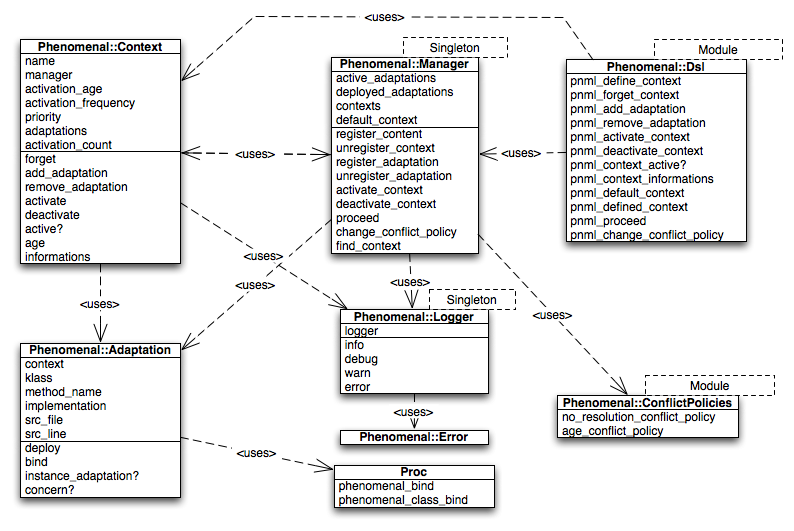
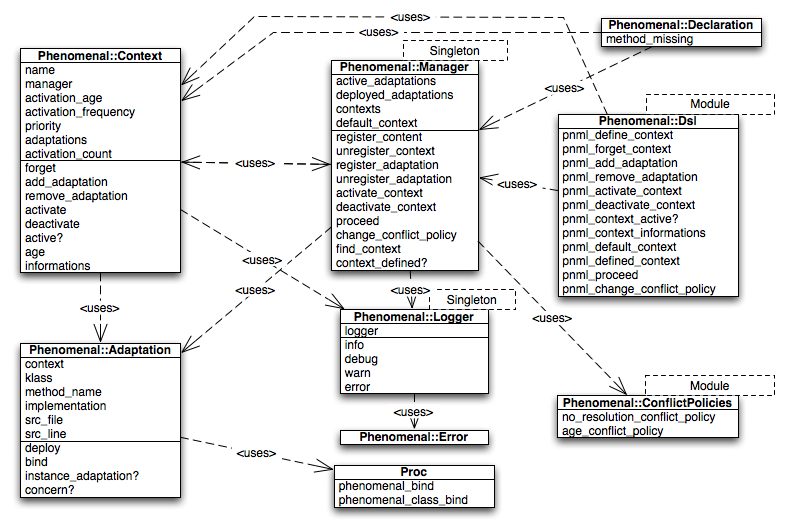
Style change

diff --git a/app/assets/stylesheets/layout.css.scss b/app/assets/stylesheets/layout.css.scss
@@ -8,6 +8,7 @@ body {
   #main_title{
     font-size:2em;
     float:left;
+    color:white;
   }
   #menu {
     float:right;
@@ -70,12 +71,13 @@ body {
   filter: progid:DXImageTransform.Microsoft.Shadow(color='#c0c0c0',Direction=135,Strength=8);
 }
 #footer {
+  color: white;
   text-align:center;
   a {
-    color:black;
+    color:white;
   }
   a:hover{
-    color:black;
+    color:white;
   }
 }
 .clear {

diff --git a/app/controllers/application_controller.rb b/app/controllers/application_controller.rb
@@ -6,27 +6,27 @@ class ApplicationController < ActionController::Base
   def activate_contexts
     # Hour contexts
     hour = Time.now.hour
-    if hour > 6 && hour < 12
-      pnml_activate_context(:morning) 
-    elsif hour <18
-      pnml_activate_context(:afternoon) 
+    if hour >= 6 && hour < 12
+      pnml_activate_context(DayTimes::Morning.name) 
+    elsif hour >= 12 && hour <18
+      pnml_activate_context(DayTimes::Afternoon.name) 
     elsif hour >= 18 && hour < 23
-      pnml_activate_context(:evening) 
+      pnml_activate_context(DayTimes::Evening.name) 
     else
-       pnml_activate_context(:night) 
+       pnml_activate_context(DayTimes::Night.name) 
     end
     
     # Browser context
     user_agent = request.user_agent
     puts user_agent
     if user_agent[/(Firefox)/]
-      pnml_activate_context(:firefox) 
+      pnml_activate_context(Browsers::Firefox.name) 
     elsif user_agent[/(Chrome)/]
-      pnml_activate_context(:chrome) 
+      pnml_activate_context(Browsers::Chrome.name) 
     elsif user_agent[/(Safari)/]
-      pnml_activate_context(:safari)
+      pnml_activate_context(Browsers::Safari.name)
     elsif user_agent[/(MSIE)/]
-      pnml_activate_context(:internetexplorer) 
+      pnml_activate_context(Browsers::InternetExplorer.name) 
     end
     
     # OS context
@@ -44,9 +44,9 @@ class ApplicationController < ActionController::Base
     g = GeoIP.new("#{Rails.root}/app/assets/GeoIP.dat")
     country = g.country request.remote_ip
     if country.country_name=="Belgium"
-      pnml_activate_context(:belgium)
+      pnml_activate_context(Locations::Belgium.name)
     else
-      pnml_activate_context(:unknown_country)
+      pnml_activate_context(Locations::UnknownCountry.name)
     end 
   end
 end

diff --git a/app/contexts/phenomenal_initializer.rb b/app/contexts/phenomenal_initializer.rb
@@ -10,18 +10,18 @@ class PhenomenalInitializer
   
   # Context definition
   def self.define_contexts()
-    Browsers::ChromeContext.define
-    Browsers::FirefoxContext.define
-    Browsers::InternetExplorerContext.define
-    Browsers::SafariContext.define
+    Browsers::Chrome.define
+    Browsers::Firefox.define
+    Browsers::InternetExplorer.define
+    Browsers::Safari.define
     
-    DayTimes::MorningContext.define
-    DayTimes::AfternoonContext.define
-    DayTimes::EveningContext.define
-    DayTimes::NightContext.define
+    DayTimes::Morning.define
+    DayTimes::Afternoon.define
+    DayTimes::Evening.define
+    DayTimes::Night.define
     
-    Locations::BelgiumContext.define
-    Locations::UnknownCountryContext.define
+    Locations::Belgium.define
+    Locations::UnknownCountry.define
     
     OperatingSystems::Linux.define
     OperatingSystems::Macos.define

diff --git a/app/contexts/browsers/firefox.rb b/app/contexts/browsers/firefox.rb
@@ -1,0 +1,15 @@
+class Browsers::Firefox < Phenomenal::Declaration
+  def self.define
+    pnml_def(PagesHelper, :phenomenal_color) do |r,g,b|
+      pnml_proceed(r+50,g,b-100)
+    end
+    
+    pnml_def(PagesHelper, :display_browser) do 
+      image_tag("contexts/browsers/firefox.png", "data-caption"=>"Your browser is firefox")
+    end
+    
+    pnml_def(PagesHelper, :display_phenomenal_use_diagram) do
+      image_tag("project/phenomenal_use_diagram.svg")
+    end
+  end
+end

diff --git a/app/contexts/locations/belgium.rb b/app/contexts/locations/belgium.rb
@@ -1,7 +1,6 @@
-class Locations::BelgiumContext 
+class Locations::Belgium < Phenomenal::Declaration
   def self.define
-    pnml_define_context(:belgium) 
-    pnml_add_adaptation(:belgium, PagesHelper, :display_location) do 
+    pnml_def(PagesHelper, :display_location) do 
       image_tag("http://maps.googleapis.com/maps/api/staticmap?center=Belgium&zoom=6&size=940x175&maptype=roadmap&sensor=false")
     end
   end

diff --git a/app/contexts/browsers/safari.rb b/app/contexts/browsers/safari.rb
@@ -1,0 +1,12 @@
+class Browsers::Safari < Phenomenal::Declaration
+  def self.define
+    pnml_def(PagesHelper, :phenomenal_color) do |red,green,blue|
+      k=100
+      pnml_proceed(red+75,green-10,blue-50)
+    end
+    
+    pnml_def(PagesHelper, :display_browser) do 
+      image_tag("contexts/browsers/safari.png","data-caption"=>"Your browser is safari")
+    end
+  end
+end

diff --git a/app/contexts/browsers/chrome.rb b/app/contexts/browsers/chrome.rb
@@ -1,0 +1,11 @@
+class Browsers::Chrome < Phenomenal::Declaration
+  def self.define
+    pnml_def(PagesHelper, :phenomenal_color) do |r,g,b|
+      pnml_proceed(r+50,g+50,b-75)
+    end
+    
+    pnml_def(PagesHelper, :display_browser) do 
+      image_tag("contexts/browsers/chrome.png", "data-caption"=>"Your browser is chrome")
+    end
+  end
+end

diff --git a/app/contexts/browsers/internet_explorer.rb b/app/contexts/browsers/internet_explorer.rb
@@ -1,0 +1,11 @@
+class Browsers::InternetExplorer < Phenomenal::Declaration
+  def self.define
+    pnml_def(PagesHelper, :phenomenal_color) do |r,g,b|
+      pnml_proceed(r,g,b+25)
+    end
+    
+    pnml_def(PagesHelper, :display_browser) do 
+      image_tag("contexts/browsers/ie.png", "data-caption"=>"Your browser is MS IE")
+    end
+  end
+end

diff --git a/app/contexts/day_times/evening.rb b/app/contexts/day_times/evening.rb
@@ -1,0 +1,12 @@
+class DayTimes::Evening < Phenomenal::Declaration
+  def self.define
+    pnml_def(PagesHelper, :phenomenal_color) do |r,g,b|
+      k = 1.40
+      pnml_proceed((r/k).to_i,(g/k).to_i,(b/k).to_i)
+    end
+    
+    pnml_def(PagesHelper, :display_hour) do 
+      asset_path("contexts/day_times/evening.png")
+    end
+  end
+end

diff --git a/app/contexts/day_times/morning.rb b/app/contexts/day_times/morning.rb
@@ -1,0 +1,12 @@
+class DayTimes::Morning < Phenomenal::Declaration
+  def self.define
+    pnml_def(PagesHelper, :phenomenal_color) do |r,g,b|
+      k = 1.40
+      pnml_proceed((r*k).to_i,(g*k).to_i,(b*k).to_i)
+    end
+    
+    pnml_def(PagesHelper, :display_hour) do 
+      asset_path("contexts/day_times/morning.png")
+    end
+  end
+end

diff --git a/app/contexts/day_times/afternoon.rb b/app/contexts/day_times/afternoon.rb
@@ -1,0 +1,11 @@
+class DayTimes::Afternoon < Phenomenal::Declaration
+  def self.define
+    pnml_def(PagesHelper, :phenomenal_color) do |r,g,b|
+      pnml_proceed(r,g,b)
+    end
+    
+    pnml_def(PagesHelper, :display_hour) do 
+      asset_path("contexts/day_times/afternoon.png")
+    end
+  end
+end

diff --git a/app/contexts/day_times/night.rb b/app/contexts/day_times/night.rb
@@ -1,0 +1,11 @@
+class DayTimes::Night < Phenomenal::Declaration 
+  def self.define
+    pnml_def(PagesHelper, :phenomenal_color) do |r,g,b|
+      pnml_proceed(0,0,0)
+    end
+    
+    pnml_def(PagesHelper, :display_hour) do 
+      asset_path("contexts/day_times/night.png")
+    end
+  end
+end
